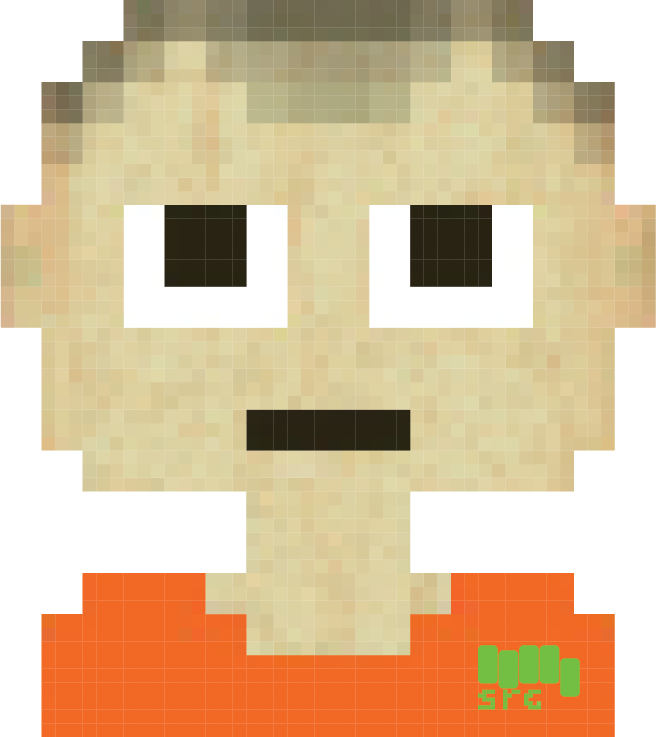
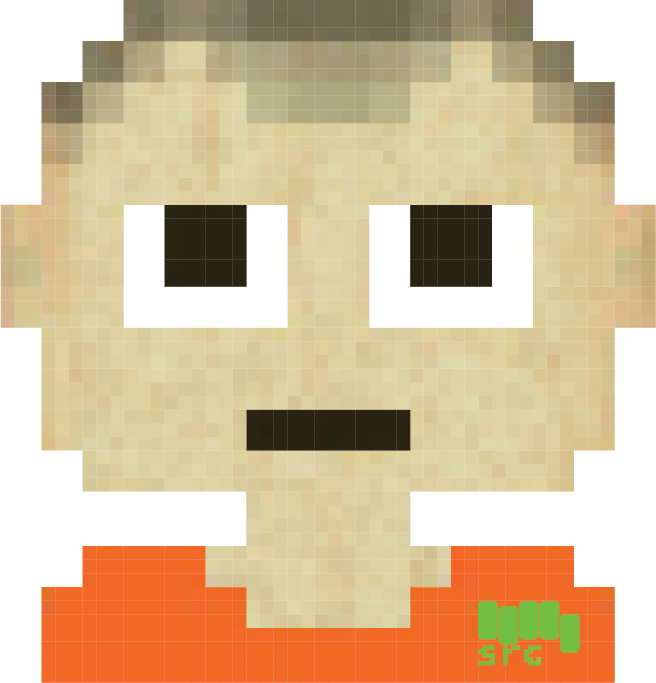
-_-

diff --git a/README.md b/README.md
@@ -5,3 +5,7 @@
 ![root logo](root.png)
 
 ![src logo](src_mult.png)
+
+Avatar wearing an src coding school tshirt 
+
+![src tshirt](avatar.png)
